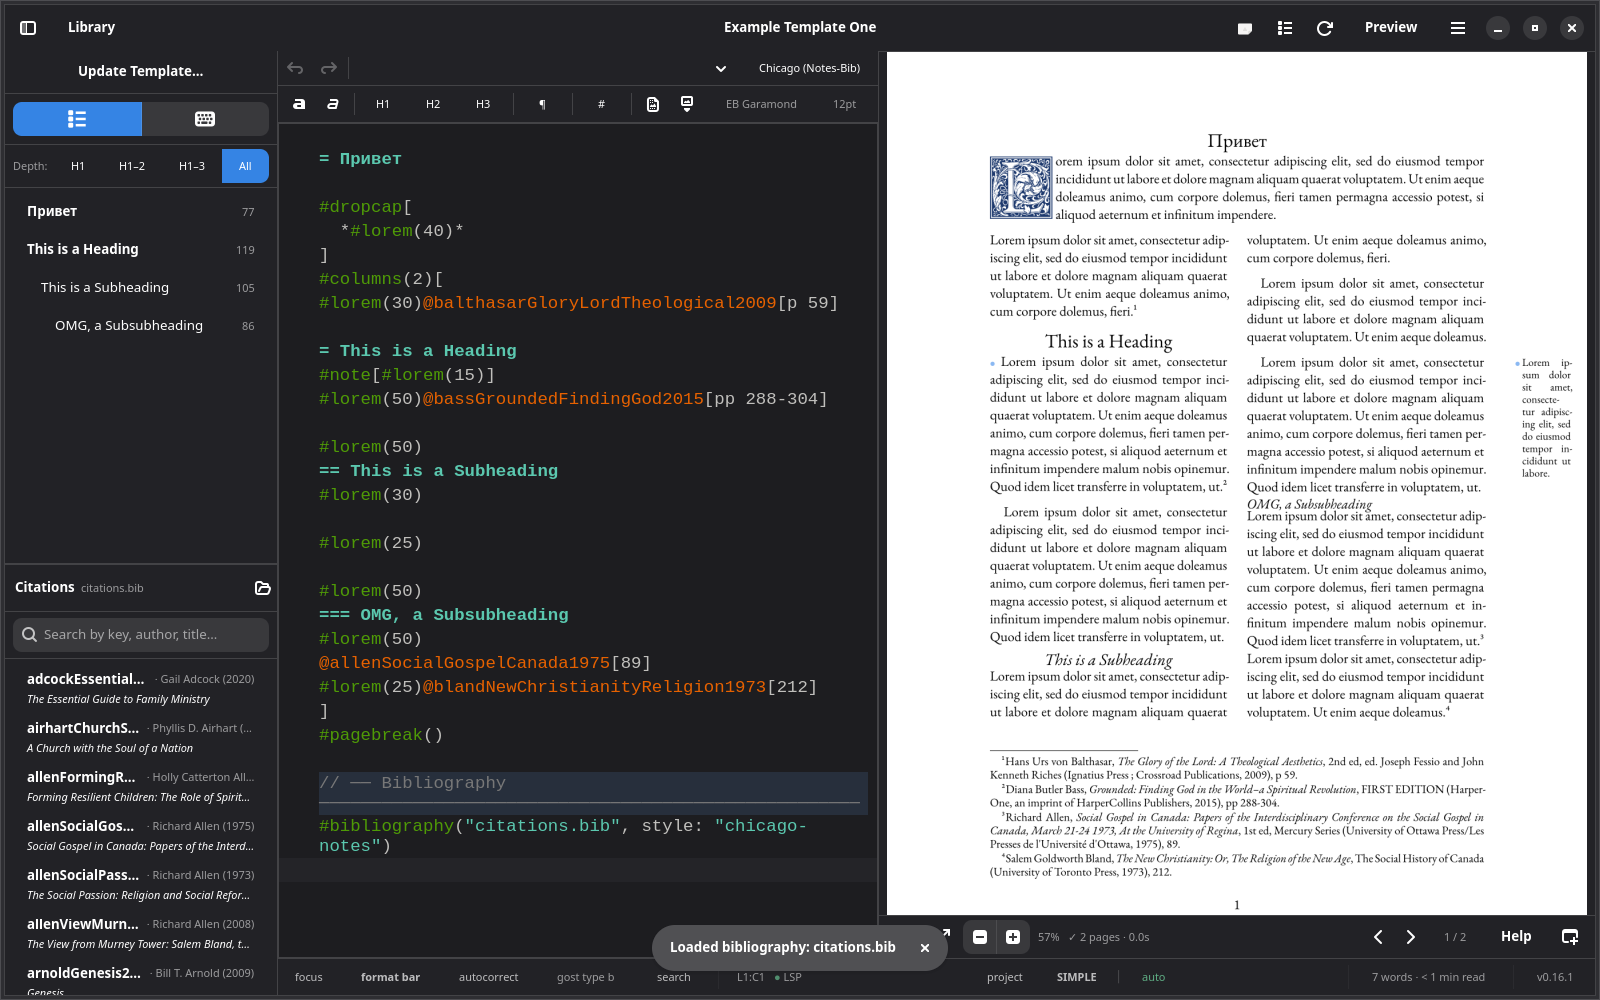
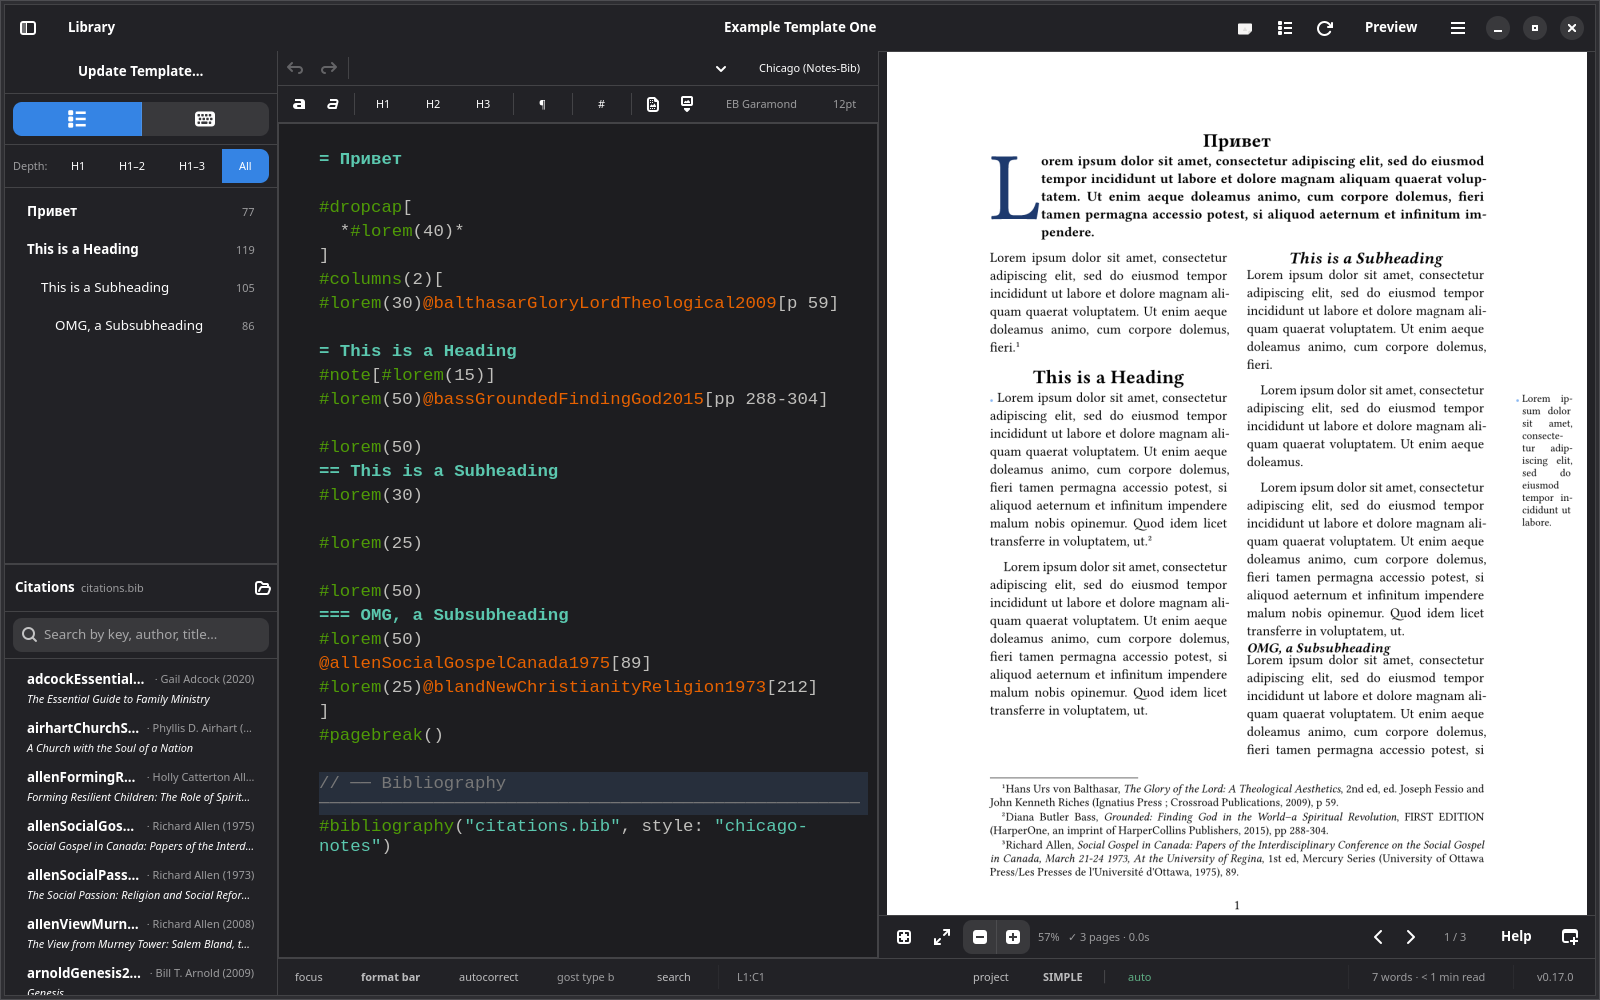
v0.17.0 "Clear Glass" — Sign in with GitHub, CV Mode, reliable font rendering

Changed region(s): [[0.5938, 0.124, 1.0, 0.899], [0.4062, 0.899, 0.5938, 0.992], [0.6562, 0.961, 0.6875, 0.992]]

diff --git a/src/ui/welcome_window.rs b/src/ui/welcome_window.rs
@@ -7,7 +7,7 @@ use libadwaita as adw;
 use adw::prelude::*;
 
 const VERSION: &str = env!("CARGO_PKG_VERSION");
-const RELEASE_NAME: &str = "Even Column";
+const RELEASE_NAME: &str = "Clear Glass";
 
 pub struct WelcomeWindow {
     window: adw::Window,

diff --git a/CHANGELOG.md b/CHANGELOG.md
@@ -5,7 +5,7 @@ Format follows [Keep a Changelog](https://keepachangelog.com/en/1.1.0/).
 
 ---
 
-## [0.17.0-dev5] — Sign in with GitHub, CV Mode, template gallery polish
+## [0.17.0] "Clear Glass" — Sign in with GitHub, CV Mode, reliable font rendering
 
 ### Added
 - **Sign in with GitHub (device flow)** — the setup wizard and Settings → GitHub Sync now offer a "Sign in with GitHub" button instead of requiring a hand-generated Personal Access Token. Approve the sign-in with a short code at github.com/login/device; the resulting token is stored in the system keyring instead of plaintext config.
